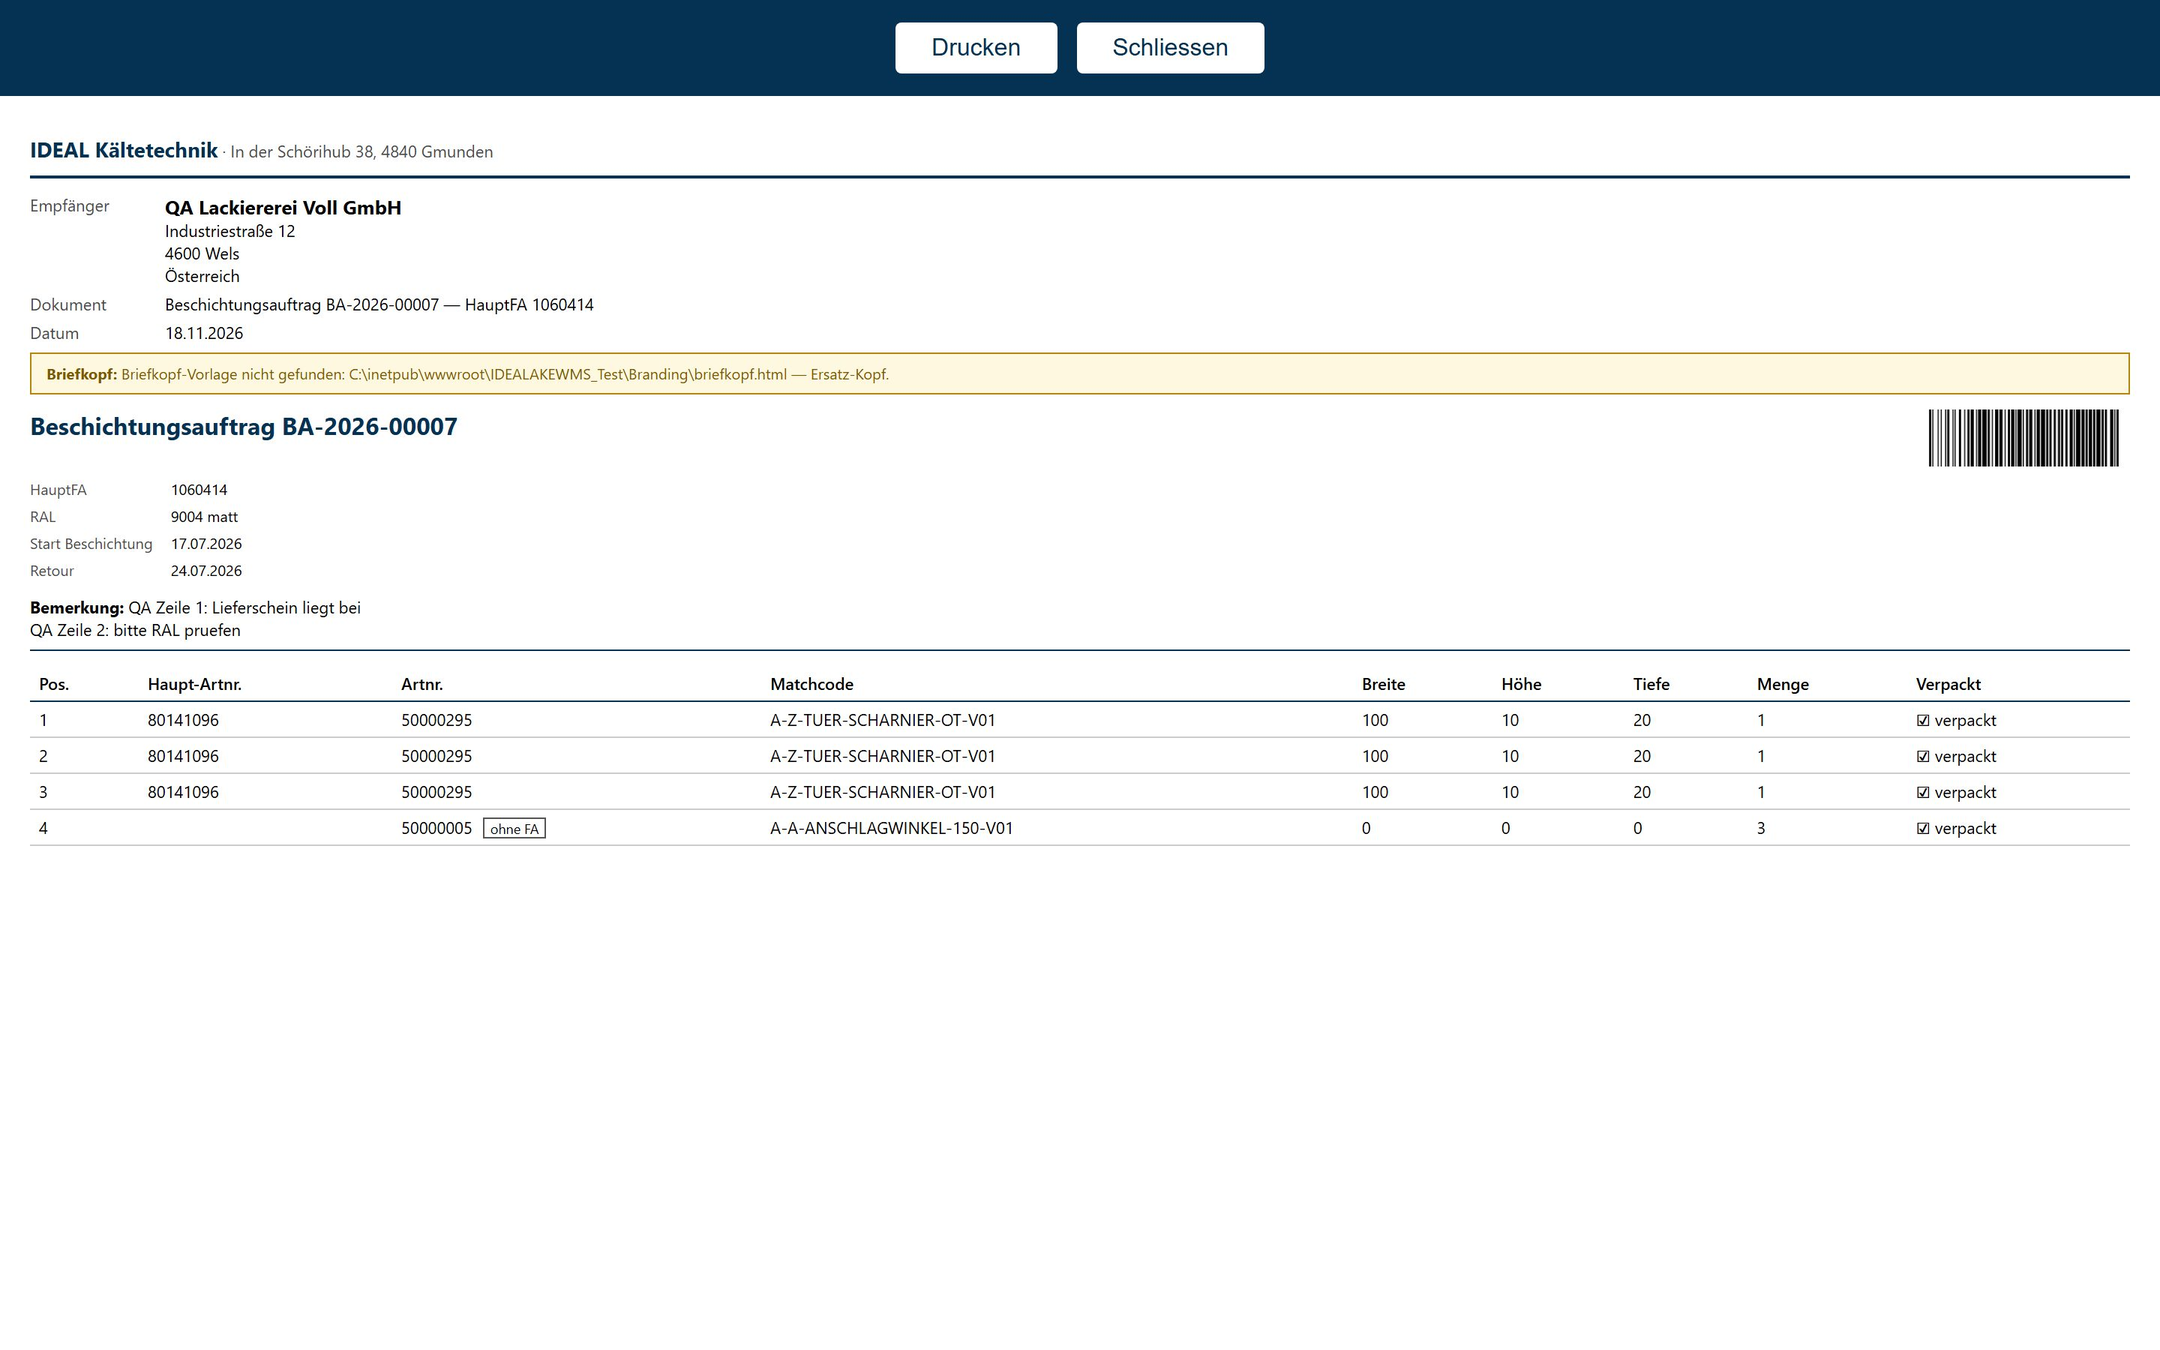
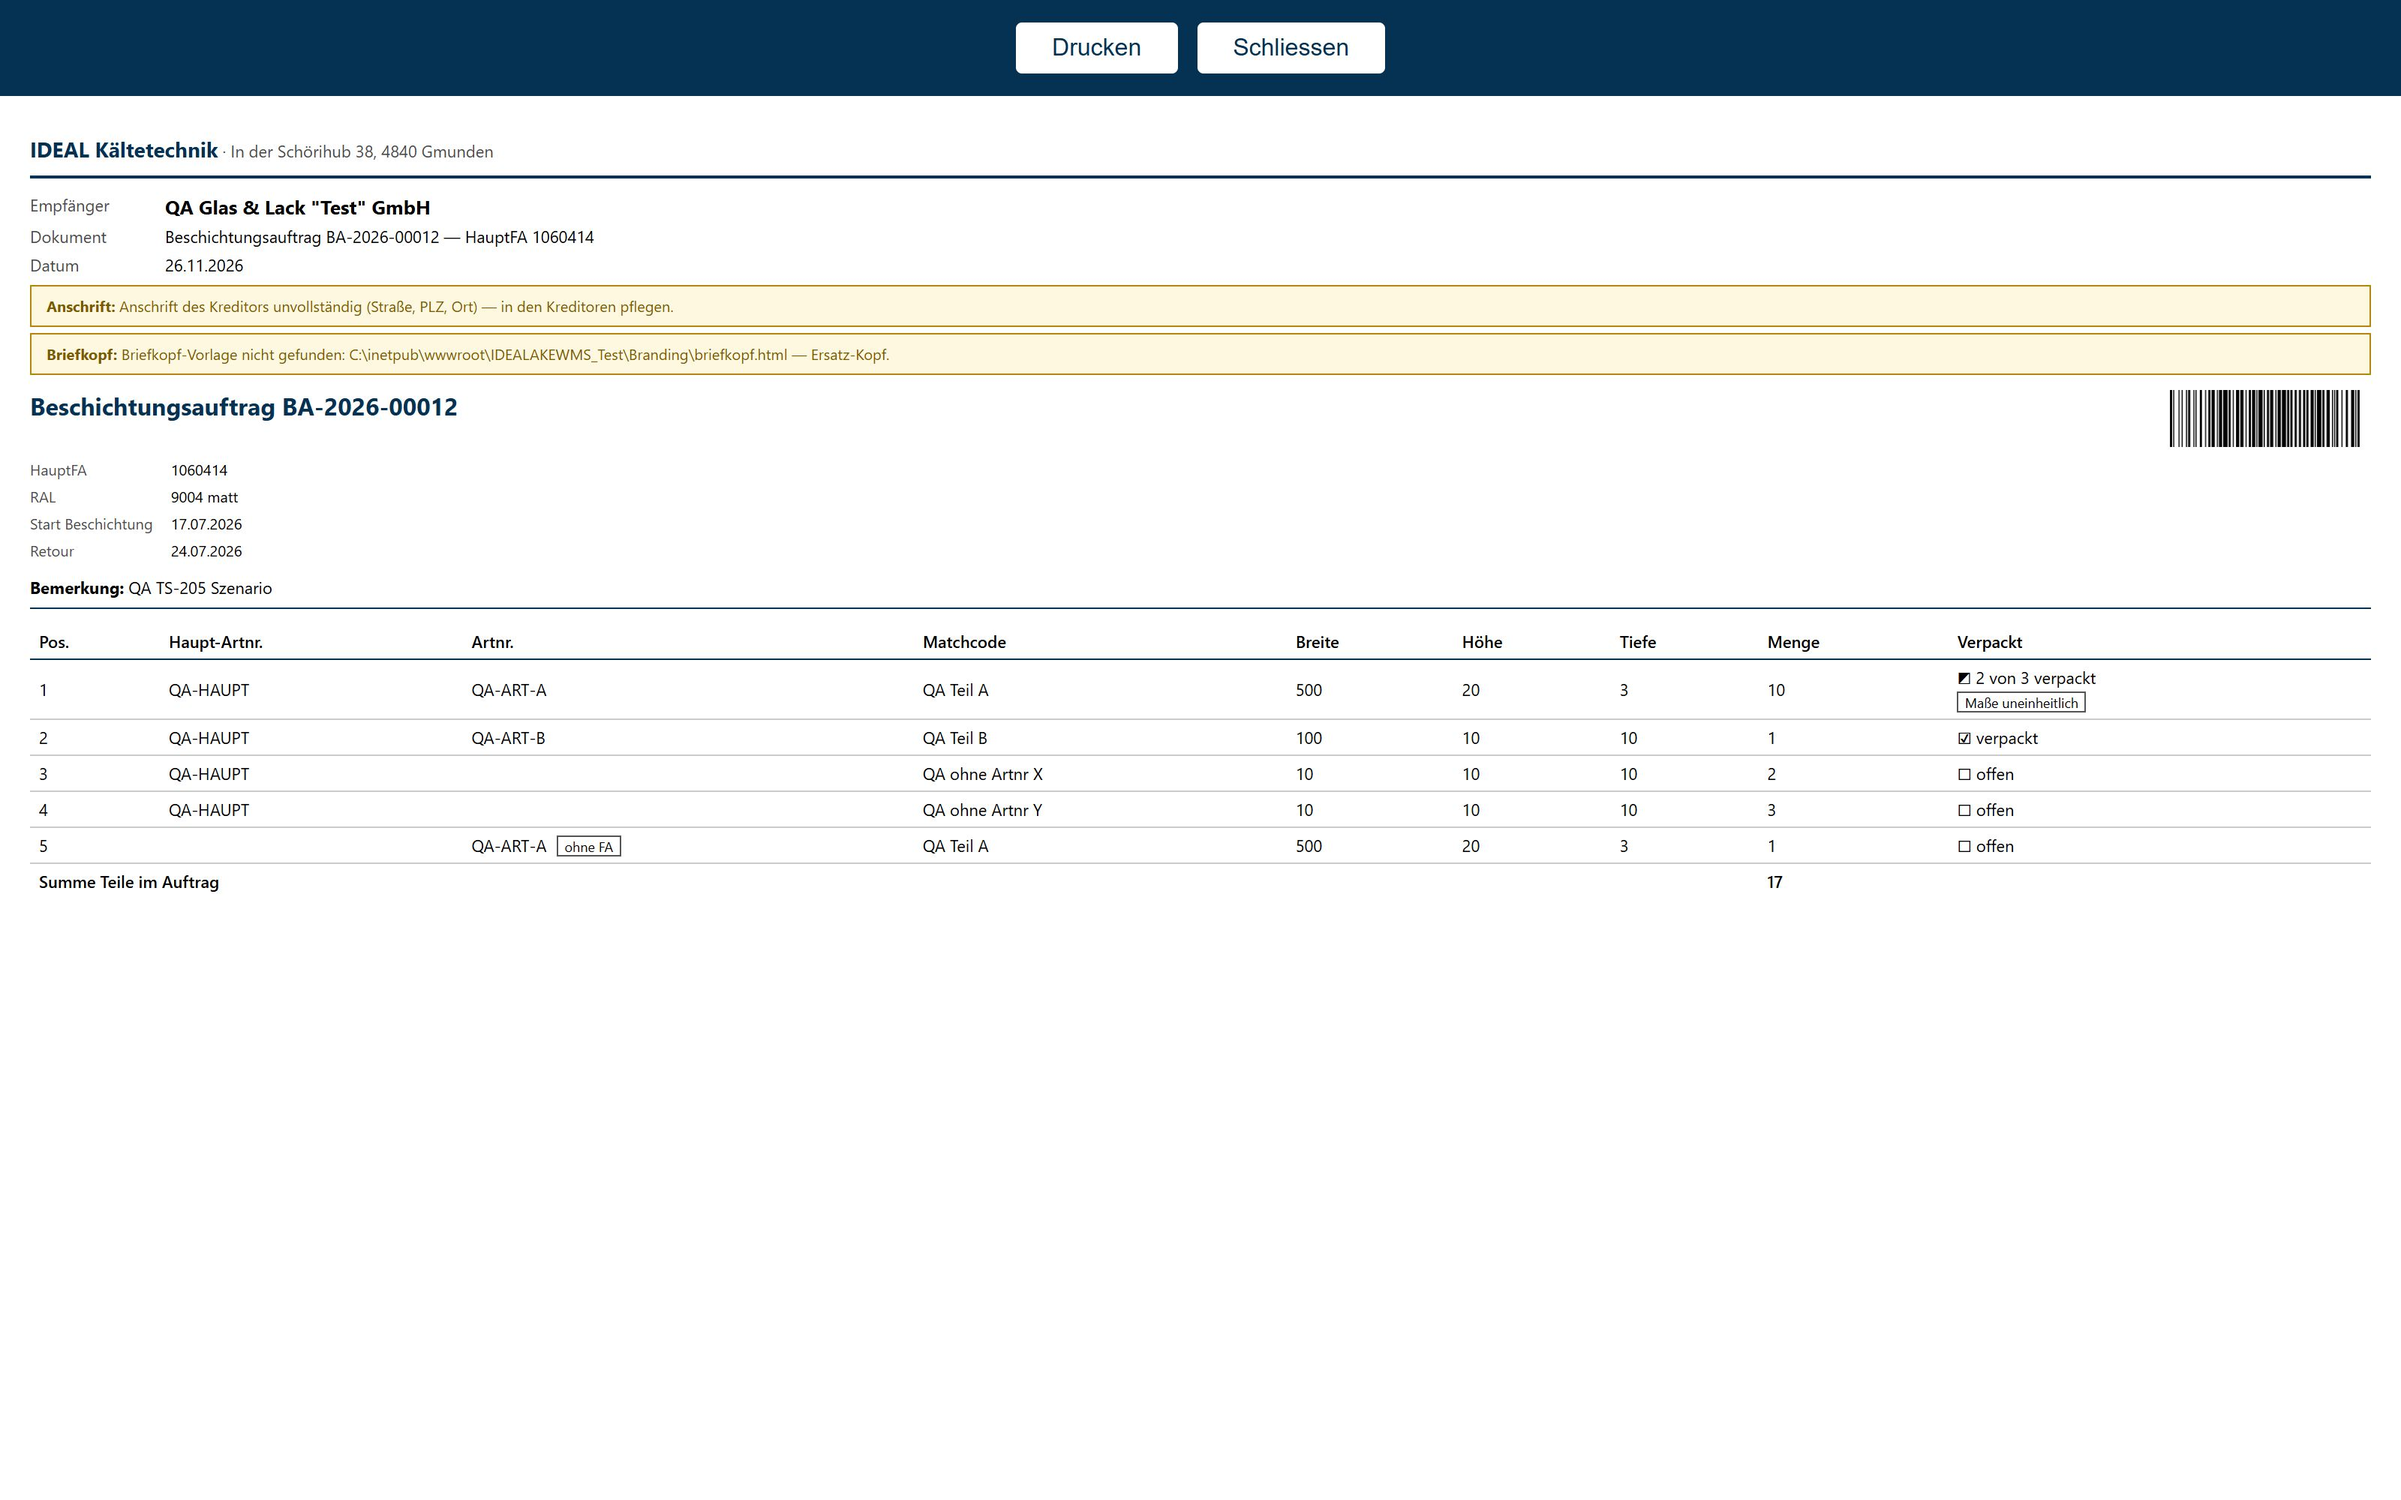
docs: buendel-1 Doku 1.99.86-1.99.89 mit Fotos (Kapitel 01, 03, 15, README, Betrieb 00-index)
Claude-Session: https://claude.ai/code/session_012YfKaZuJsrWHFsTAB4KRsk

diff --git a/docs/anwender/README.md b/docs/anwender/README.md
@@ -46,13 +46,16 @@ FA-Nummer und einem Bildschirmfoto.
 
 ## Stand und was noch folgt
 
-Stand der Anleitungen: Version **1.99.89** (26.11.2026) für Kapitel 01 (IDEAL: Kommissionierauftrag Maske „Liste“ und summierter Druck, Text; Fotos folgen), Version **1.99.87** (26.11.2026) für Kapitel 15 (Druck summiert je Artikel, Text; Foto 15-06 folgt), Version **1.99.84** (26.11.2026) für Kapitel 20 (neu, FA-Liste und FA-Struktur, mit Fotos), Version **1.99.81** (26.11.2026) für die Kapitel 11, 17 und 19 (BDE-Fix-Lauf, Text; Fotos 11-02/11-03 entfernt, neue Fotos folgen), Doku-Nachzug **1.99.80** (25.11.2026) für die Kapitel 01, 03, 10, 11 und 17 (Text, keine neuen Fotos), Version **1.99.79** (25.11.2026) für die Kapitel 11, 17 und 19 (Sammel-Fixes, Text; keine neuen Fotos), Version **1.99.78** (25.11.2026) für die Kapitel 11 und 17 (Kapitel 11 umgeschrieben, Terminal-Seite abgelöst, Tageshistorie; Fotos 11-01, 11-04 bis 11-07, 17-01, 17-03, 17-05 bis 17-07 und 17-13 Handy neu), Version **1.99.77** (25.11.2026) für die Kapitel 11 und 17 (Text; Foto 11-06 folgt), Version **1.99.76** (25.11.2026) für die Kapitel 11 und 17 (Text; Fotos 11-05 und 17-01 folgen), Version **1.99.75** (25.11.2026) für Kapitel 17 (Text; Fotos 17-05 und 17-07 folgen), Version **1.99.74** (25.11.2026) für Kapitel 17 (Text; Foto 17-06 folgt), Version **1.99.73** (25.11.2026) für die Kapitel 11 und 17 (Text; Fotos folgen), Version **1.99.72** (25.11.2026) für die Kapitel 03, 10 und 17 (mit Fotos), Version **1.99.71** (25.11.2026) für Kapitel 19 (neu, Text; Fotos folgen), Version **1.99.70** (25.11.2026) für die Kapitel 01 und 02 (Text; Fotos siehe Kapitel 01), Version **1.99.69** (25.11.2026) für die Kapitel 05 und 15 (Text), Version **1.99.68** (25.11.2026) für die Kapitel 05 und 09 (Text; Fotos siehe Kapitel), Version **1.99.67** (25.11.2026) für Kapitel 15 (Text; Fotos siehe Kapitel), Version **1.99.66** (25.11.2026) für die Kapitel 05, 09 und 18 (Text, Foto 05-05 neu), Version **1.99.62** (24.11.2026) für die Kapitel 05 und 10 (Text, Kapitel 10 mit Foto), Version **1.99.58** (23.11.2026) für die Kapitel 01, 03 und 10 (Text; Fotos siehe Kapitel), Version **1.99.47** (20.11.2026) für Kapitel 09, Version **1.99.59** (23.11.2026) für die Kapitel 05 und 13 (Text), Version **1.99.53** für die Kapitel 05 (Fotos) und 18 (mit Fotos) und Kapitel 03 (Foto zu „Entnahme aus“ folgt nach Einschalten), Version **1.99.45** (19.11.2026) für Kapitel 14, Version **1.99.44** für Kapitel 16, Version **1.99.43** für die Kapitel 01, 11, 13, 15 und 17; die übrigen Kapitel Version **1.99.29**. Seit Version 1.99.22 neu bzw. ergänzt:
+Stand der Anleitungen: Version **1.99.89** (26.11.2026) für Kapitel 01 (IDEAL: Kommissionierauftrag Maske „Liste“ mit Umbuchen und summierter Druck, Fotos 01-24 bis 01-26), Version **1.99.88** (26.11.2026) für die Kapitel 01 (IDEAL-Leitstand eine Zeile je HauptFA, Fotos 01-22/01-23) und 15 (Summenzeile nur Teilesumme, Foto 15-06 neu), Version **1.99.87** (26.11.2026) für Kapitel 15 (Druck summiert je Artikel), Version **1.99.86** (26.11.2026) für Kapitel 03 (Hinweis „bereits als Fehlteil bestellt“, Foto 03-12), Version **1.99.84** (26.11.2026) für Kapitel 20 (neu, FA-Liste und FA-Struktur, mit Fotos), Version **1.99.81** (26.11.2026) für die Kapitel 11, 17 und 19 (BDE-Fix-Lauf, Text; Fotos 11-02/11-03 entfernt, neue Fotos folgen), Doku-Nachzug **1.99.80** (25.11.2026) für die Kapitel 01, 03, 10, 11 und 17 (Text, keine neuen Fotos), Version **1.99.79** (25.11.2026) für die Kapitel 11, 17 und 19 (Sammel-Fixes, Text; keine neuen Fotos), Version **1.99.78** (25.11.2026) für die Kapitel 11 und 17 (Kapitel 11 umgeschrieben, Terminal-Seite abgelöst, Tageshistorie; Fotos 11-01, 11-04 bis 11-07, 17-01, 17-03, 17-05 bis 17-07 und 17-13 Handy neu), Version **1.99.77** (25.11.2026) für die Kapitel 11 und 17 (Text; Foto 11-06 folgt), Version **1.99.76** (25.11.2026) für die Kapitel 11 und 17 (Text; Fotos 11-05 und 17-01 folgen), Version **1.99.75** (25.11.2026) für Kapitel 17 (Text; Fotos 17-05 und 17-07 folgen), Version **1.99.74** (25.11.2026) für Kapitel 17 (Text; Foto 17-06 folgt), Version **1.99.73** (25.11.2026) für die Kapitel 11 und 17 (Text; Fotos folgen), Version **1.99.72** (25.11.2026) für die Kapitel 03, 10 und 17 (mit Fotos), Version **1.99.71** (25.11.2026) für Kapitel 19 (neu, Text; Fotos folgen), Version **1.99.70** (25.11.2026) für die Kapitel 01 und 02 (Text; Fotos siehe Kapitel 01), Version **1.99.69** (25.11.2026) für die Kapitel 05 und 15 (Text), Version **1.99.68** (25.11.2026) für die Kapitel 05 und 09 (Text; Fotos siehe Kapitel), Version **1.99.67** (25.11.2026) für Kapitel 15 (Text; Fotos siehe Kapitel), Version **1.99.66** (25.11.2026) für die Kapitel 05, 09 und 18 (Text, Foto 05-05 neu), Version **1.99.62** (24.11.2026) für die Kapitel 05 und 10 (Text, Kapitel 10 mit Foto), Version **1.99.58** (23.11.2026) für die Kapitel 01, 03 und 10 (Text; Fotos siehe Kapitel), Version **1.99.47** (20.11.2026) für Kapitel 09, Version **1.99.59** (23.11.2026) für die Kapitel 05 und 13 (Text), Version **1.99.53** für die Kapitel 05 (Fotos) und 18 (mit Fotos) und Kapitel 03 (Foto zu „Entnahme aus“ folgt nach Einschalten), Version **1.99.45** (19.11.2026) für Kapitel 14, Version **1.99.44** für Kapitel 16, Version **1.99.43** für die Kapitel 01, 11, 13, 15 und 17; die übrigen Kapitel Version **1.99.29**. Seit Version 1.99.22 neu bzw. ergänzt:
 
 | Version | Änderung | Anleitung |
 |---|---|---|
 | 1.99.23 | Schutz gegen Doppel-Absenden (Freigabe, Abschluss, Wareneingang, Fertigmeldung; Knopf kurz gesperrt), alle Positionen im Kommissionierauftrag sichtbar, CSV-Mengen ohne Tausendertrenner | [01](01-kommissionierung.md), [05](05-wareneingang-zu-bestellung.md), [10](10-bestaende-spaltenfilter.md), [11](11-bde-terminal.md) |
 | 1.99.24 | nicht vergeben | – |
 | 1.99.25 | Beschichtung: Quelle für Kennzeichen und Termin einstellbar (Einstellungen, ohne sichtbare Änderung im Alltag) | [15](15-beschichtung-beschichtungsauftrag.md) |
+| 1.99.86 | Lager-/Glasbestellung: Hinweis „bereits als Fehlteil bestellt“ mit Liefertermin beim Erfassen | [03](03-lagerbestellung-glasbestellung.md) |
+| 1.99.88 | IDEAL-Leitstand: eine Zeile je HauptFA, Werte aus Sub-FAs zusammengefasst, Schalter „Sub-FAs anzeigen“; Beschichtungsauftrag: Summenzeile nur Teilesumme | [01](01-kommissionierung.md), [15](15-beschichtung-beschichtungsauftrag.md) |
+| 1.99.89 | IDEAL-Kommissionierauftrag: Maske „Liste“ summiert je Artikel mit Umbuchen (Verteilung auf Positionen), summierter Druck und PDF | [01](01-kommissionierung.md) |
 | 1.99.26 | Sage-Test → Stückliste live: „Ressourcenliste (Vorlage)“, FA-Struktur auch für beendete Haupt-FAs | [12](12-register-sage-test.md) |
 | 1.99.27 | reserviert, nicht ausgeliefert | – |
 | 1.99.28 | Anmeldung nur mit Kennwort, Erstkennwort mit Pflichtwechsel | [13](13-anmeldung-und-benutzer.md) |

diff --git a/docs/anwender/01-kommissionierung.md b/docs/anwender/01-kommissionierung.md
@@ -1,6 +1,6 @@
 # 01 – Kommissionierung
 
-Stand: Version 1.99.89 (IDEAL: Maske „Liste“ und summierter Auftragsdruck, Text; Fotos folgen), 1.99.79 (Hinweis „Altbestand geprüft“), 1.99.70 (Abschnitt „Weitere Knöpfe“, Hinweise) bzw. 1.99.58 · Standorte AKE und IDEAL · Bilder aus dem AKE-Testsystem (IDEAL-Bild extra gekennzeichnet)
+Stand: Version 1.99.89 (IDEAL: Maske „Liste“ mit Umbuchen und summierter Auftragsdruck, mit Fotos), 1.99.88 (IDEAL-Leitstand eine Zeile je HauptFA, mit Fotos), 1.99.79 (Hinweis „Altbestand geprüft“), 1.99.70 (Abschnitt „Weitere Knöpfe“, Hinweise) bzw. 1.99.58 · Standorte AKE und IDEAL · Bilder aus dem AKE-Testsystem (IDEAL-Bild extra gekennzeichnet)
 
 ## Zweck
 
@@ -162,6 +162,10 @@ Sind die Kommissionierlisten eingeschaltet, öffnet der Auftrag bei IDEAL in der
 - Wer Haken gesetzt oder Ist-Mengen geändert hat und umschaltet, wird vorher gefragt – ungespeicherte Eingaben gehen sonst verloren.
 - Die Liste hat eine eigene Spaltenauswahl (Zahnrad), unabhängig von der Stückliste.
 
+![Maske „Liste“: Umschalter Stückliste | Liste, Zeile mit Pos. 5.5, 6.5, Ist-Menge mit „verteilt auf Pos. …“ und Quell-Lagerplatz](bilder/01-24-auftrag-maske-liste.jpg)
+
+![Dieselbe Liste nach dem Umbuchen: „✓ gepickt“, eine Zeile mit „⚠ Rest 1 aus Pos. 6.7 geht beim Abschluss in den Folgeauftrag“](bilder/01-25-liste-nach-buchung.jpg)
+
 ### 5. Zeilen anhaken, Ist-Menge und Quell-Lagerplatz prüfen
 
 1. Bei jedem geholten Teil das Häkchen setzen (oder Artikel scannen). Die Zeile wird grün; noch ist **nichts** gebucht.
@@ -231,6 +235,8 @@ Auf der Auftragsseite **Auftrag drucken** öffnet eine Druckansicht in einem neu
   eine Zeile je Artikel und Kommissionierziel, genau mit den in der Liste eingeblendeten Spalten, in der Reihenfolge der Liste.
   Daneben lädt **PDF** dasselbe Dokument als PDF-Datei (nur sichtbar, wenn die PDF-Erzeugung eingerichtet ist).
 
+![Summierter Auftragsdruck (IDEAL): Banner „Summierte Ansicht“, je Artikel und Ziel eine Zeile, Spalte Pos. mit allen Positionen](bilder/01-26-auftrag-drucken-summiert.jpg)
+
 ### 9. Fehlteile: Bedarfsmeldung aus dem Auftrag
 
 Fehlt ein Teil, kann direkt aus dem Auftrag eine **Bedarfsmeldung** erstellt werden (nur wenn die Einstellung „Bedarfsmeldungen aus der
@@ -267,6 +273,21 @@ Im Leitstand beim FA auf den **grünen Haken** klicken (oder mehrere markieren u
 | Kommissionierlisten | – | zusätzlich Menü **Kommissionierung → Kommissionierlisten** (summiert nach Kommissionier-Ziel, mit Abteilung und Lagerplätzen). Seit Version 1.99.43 stehen dort **nur im Leitstand freigegebene** HauptFAs – wer dort etwas vermisst, prüft zuerst die Freigabe (Schritt 1). Anleitung: [Kapitel 16](16-ideal-kommissionierliste.md) |
 
 ![IDEAL-Testsystem: HauptFA mit Sub-FAs, nur die HauptFA-Zeile hat „Freigeben“](bilder/01-18-ideal-nur-hauptfa.jpg)
+
+**Seit Version 1.99.88 – IDEAL-Leitstand: eine Zeile je HauptFA.** Der Leitstand zeigt ohne Gruppenkopf nur noch die HauptFA-Zeilen
+(das Bild oben zeigt den früheren Stand). Die FA-Nr.-Zelle nennt „+ n Sub-FAs“, wenn Sub-FAs eingeflossen sind.
+
+- **Lack-T, Glas, Zukauf, VK–VA** fassen HauptFA und alle Sub-FAs zusammen: Lack-T, Glas, Zukauf angehakt, wenn irgendeine Zeile sie hat;
+  Lack-T erledigt, wenn alle Zeilen mit Lackteilen erledigt sind; VK–VA alle fertig = Fertig, alle offen = Offen, sonst in Bearbeitung.
+- Ein Klick speichert **nur die HauptFA**. Bestimmen Sub-FAs den Wert mit, steht darunter „Sub-FA bestimmt den Wert weiter“ und die Seite
+  lädt nach dem Speichern neu. „Lackteile nur an Sub-FAs“ bzw. „Arbeitsgang nur an Sub-FAs“ sind gesperrt – ändern über **Sub-FAs anzeigen**.
+- **Sub-FAs anzeigen** (Filterkarte) zeigt die bisherige Ansicht mit allen Sub-FA-Zeilen. Nur dort findet die FA-Nr.-Suche Sub-FA-Nummern;
+  ohne Schalter weist ein Hinweis darauf hin.
+- **Alle Sub-FAs fertigmelden** steht in der Zeile. Aufträge ohne HauptFA-Zeile meldet ein Banner.
+
+![IDEAL-Leitstand seit 1.99.88: je HauptFA eine Zeile mit „+ n Sub-FAs“](bilder/01-22-leitstand-nur-hauptfa.jpg)
+
+![Rechter Teil derselben Zeilen: zusammengefasste Werte, Hinweise „Sub-FA bestimmt den Wert weiter“ und „Arbeitsgang nur an Sub-FAs“](bilder/01-23-leitstand-hauptfa-hinweise.jpg)
 
 ## Hinweise und Stolperfallen
 

diff --git a/docs/anwender/03-lagerbestellung-glasbestellung.md b/docs/anwender/03-lagerbestellung-glasbestellung.md
@@ -1,6 +1,6 @@
 # 03 – Lagerbestellung und Glasbestellung
 
-Stand: Version 1.99.85 (Abschnitt 9 Liefertermin seit 1.99.85, Abschnitt 8 Fräsen-Pfad seit 1.99.72), 1.99.57 (Bilder aus dem AKE-Testsystem, Stand 1.99.29 – Foto zu „Entnahme aus“ folgt nach Einschalten des Schalters) · Standorte AKE und IDEAL
+Stand: Version 1.99.86 (Hinweis „bereits als Fehlteil bestellt“ beim Erfassen, mit Foto), 1.99.85 (Abschnitt 9 Liefertermin seit 1.99.85, Abschnitt 8 Fräsen-Pfad seit 1.99.72), 1.99.57 (Bilder aus dem AKE-Testsystem, Stand 1.99.29 – Foto zu „Entnahme aus“ folgt nach Einschalten des Schalters) · Standorte AKE und IDEAL
 
 ## Zweck
 
@@ -61,6 +61,12 @@ Menü **Bestellungen → Lagerbestellungen**. Oben die Reiter **Lager** und **Gl
 - **Artikel nicht gefunden?** Dann bietet die Suche eine **DUMMY-Position** an: eigene Bezeichnung eingeben (Pflicht), Menge,
   **DUMMY-Position anlegen**.
 - Ein Glas-Artikel lässt sich nicht in eine Lager-Liste aufnehmen und umgekehrt („Artikelgruppe … gehoert zur Glas-Bestellung.“).
+- **Seit 1.99.86:** Wird der Artikel an den eigenen Werkbänken schon als **Fehlteil nachgeliefert**, steht unter der Artikelnummer
+  „Hinweis: bereits als Fehlteil bestellt mit Lagerbestellung #… (wird nachgeliefert)“ und der nächste Liefertermin aus Sage (wie die
+  Spalte „Liefertermin“ im Lager). Es gilt dieselbe Regel wie bei „Meine Fehlteile“. Der Hinweis blockiert nichts – die Liste lässt sich
+  wie bisher abschicken; er soll nur doppeltes Bestellen vermeiden.
+
+![Lagerbestellung im Entwurf: unter der Artikelnummer der Hinweis „bereits als Fehlteil bestellt mit Lagerbestellung #…“](bilder/03-12-entwurf-hinweis-bereits-bestellt.jpg)
 
 ### 3. Kommentar und Abschicken
 

diff --git a/docs/anwender/15-beschichtung-beschichtungsauftrag.md b/docs/anwender/15-beschichtung-beschichtungsauftrag.md
@@ -1,6 +1,6 @@
 # 15 Beschichtung – Vorschlagsliste und Beschichtungsauftrag
 
-Stand: Version 1.99.67 · Standorte AKE und IDEAL · Bilder aus dem IDEAL-Testsystem
+Stand: Version 1.99.88 (Druck summiert, Summenzeile nur Teilesumme, Foto 15-06 neu), 1.99.67 · Standorte AKE und IDEAL · Bilder aus dem IDEAL-Testsystem
 
 ## Zweck
 
@@ -133,7 +133,7 @@ Drucken und PDF gehen ab **Übergeben**. Das Blatt enthält:
 
 Spalten, die man über das Zahnrad ausblendet, fehlen auch im Druck.
 
-![Druckansicht eines Beschichtungsauftrags](bilder/15-06-druck.jpg)
+![Druckansicht eines Beschichtungsauftrags: je Artikel eine Zeile, Verpackt-Spalte, Summenzeile „Summe Teile im Auftrag 17“](bilder/15-06-druck.jpg)
 
 Der gelbe Kasten „Briefkopf: …“ im Bild ist ein Hinweis aus dem Testsystem (Vorlage fehlt dort) und erscheint nur am Bildschirm.
 
